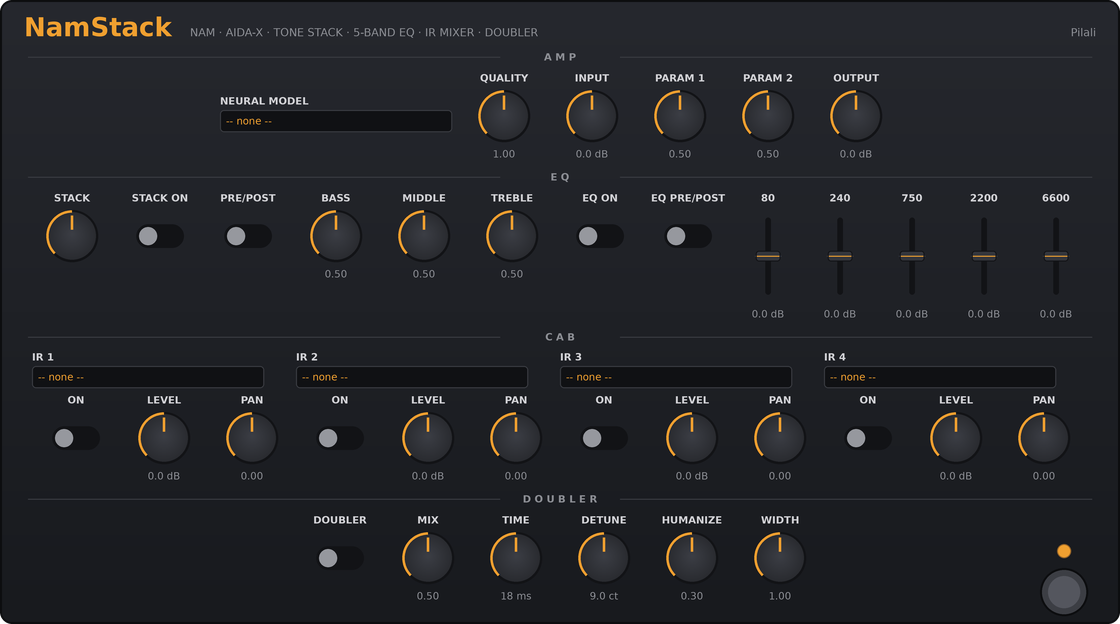
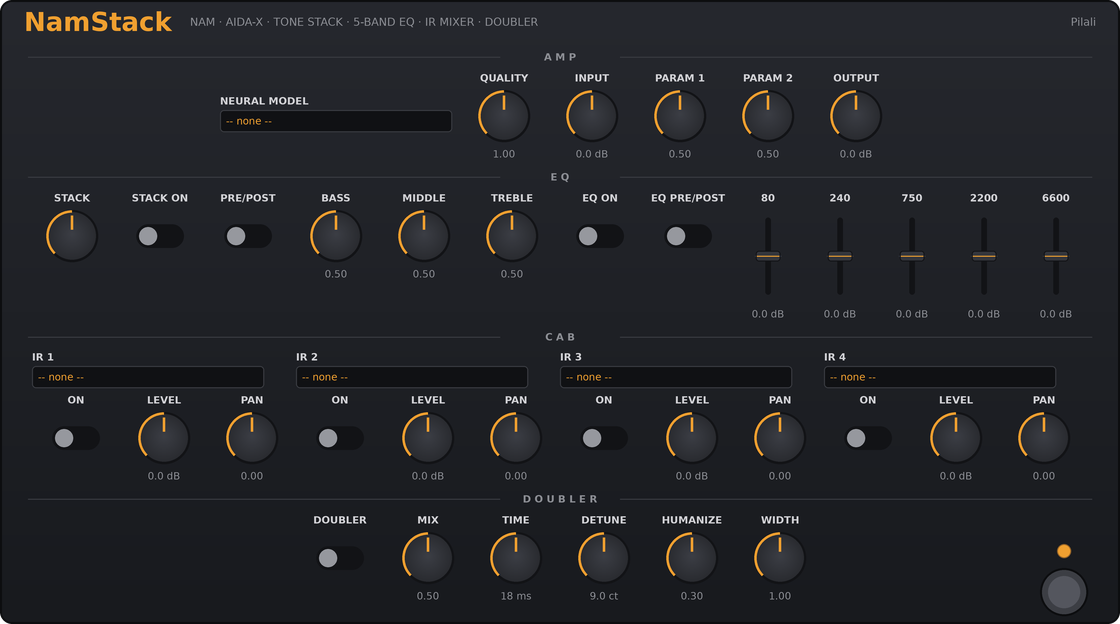
modgui: centre the header text on one line
The subtitle and the brand sat 20px below the title's top, which read as
hanging off its descenders. Give all three the same 32px line band (top 6,
line-height 32) so NamStack, the feature list and Pilali centre on the same
line, and mirror the anchors in make_screenshot_mod (screenshot regenerated).

Claude-Session: https://claude.ai/code/session_01X17FCRv3uHea2MyBBiyxgD

Changed region(s): [[0.0312, 0.0, 0.5, 0.0609], [0.9375, 0.0304, 1.0, 0.0609]]

diff --git a/mod/modgui/stylesheet-namstack-mod.css b/mod/modgui/stylesheet-namstack-mod.css
@@ -29,12 +29,15 @@
 }
 
 /* ------------------------------------------------------------- header */
+/* Title, subtitle and brand share the same 32px band (top: 6) and centre on
+   the same line through their common line-height. */
 .namstackmod{{{cns}}} .ns-header h1 {
     position: absolute;
     top: 6px;
     left: 24px;
     margin: 0;
     font-size: 26px;
+    line-height: 32px;
     font-weight: bold;
     color: #f0a030;
     pointer-events: none;
@@ -42,18 +45,20 @@
 
 .namstackmod{{{cns}}} .ns-subtitle {
     position: absolute;
-    top: 26px;
+    top: 6px;
     left: 190px;
     font-size: 11px;
+    line-height: 32px;
     color: #8c8e94;
     pointer-events: none;
 }
 
 .namstackmod{{{cns}}} .ns-brand {
     position: absolute;
-    top: 26px;
+    top: 6px;
     right: 24px;
     font-size: 11px;
+    line-height: 32px;
     color: #8c8e94;
     pointer-events: none;
 }

diff --git a/modgui/tools/generate_assets.py b/modgui/tools/generate_assets.py
@@ -322,10 +322,12 @@ def make_screenshot_mod():
     label_font = font(10 * SS, bold=True)
     value_font = font(10 * SS)
 
-    draw.text((24 * SS, 12 * SS), "NamStack", font=title_font, fill=AMBER)
-    draw.text((190 * SS, 26 * SS), "NAM · AIDA-X · TONE STACK · 5-BAND EQ · IR MIXER · DOUBLER",
-              font=sub_font, fill=TEXT_DIM)
-    draw.text((PEDAL_W * SS - 24 * SS, 26 * SS), "Pilali", font=sub_font, fill=TEXT_DIM, anchor="ra")
+    # header: title, subtitle and brand centred on the same line (CSS: all
+    # three share top 6 / line-height 32, so the common centre is y = 22)
+    draw.text((24 * SS, 22 * SS), "NamStack", font=title_font, fill=AMBER, anchor="lm")
+    draw.text((190 * SS, 22 * SS), "NAM · AIDA-X · TONE STACK · 5-BAND EQ · IR MIXER · DOUBLER",
+              font=sub_font, fill=TEXT_DIM, anchor="lm")
+    draw.text((PEDAL_W * SS - 24 * SS, 22 * SS), "Pilali", font=sub_font, fill=TEXT_DIM, anchor="rm")
 
     def draw_row(labels, switches, values, top, x0=ROW_X, block_w=BLOCK_W):
         for i, label in enumerate(labels):
